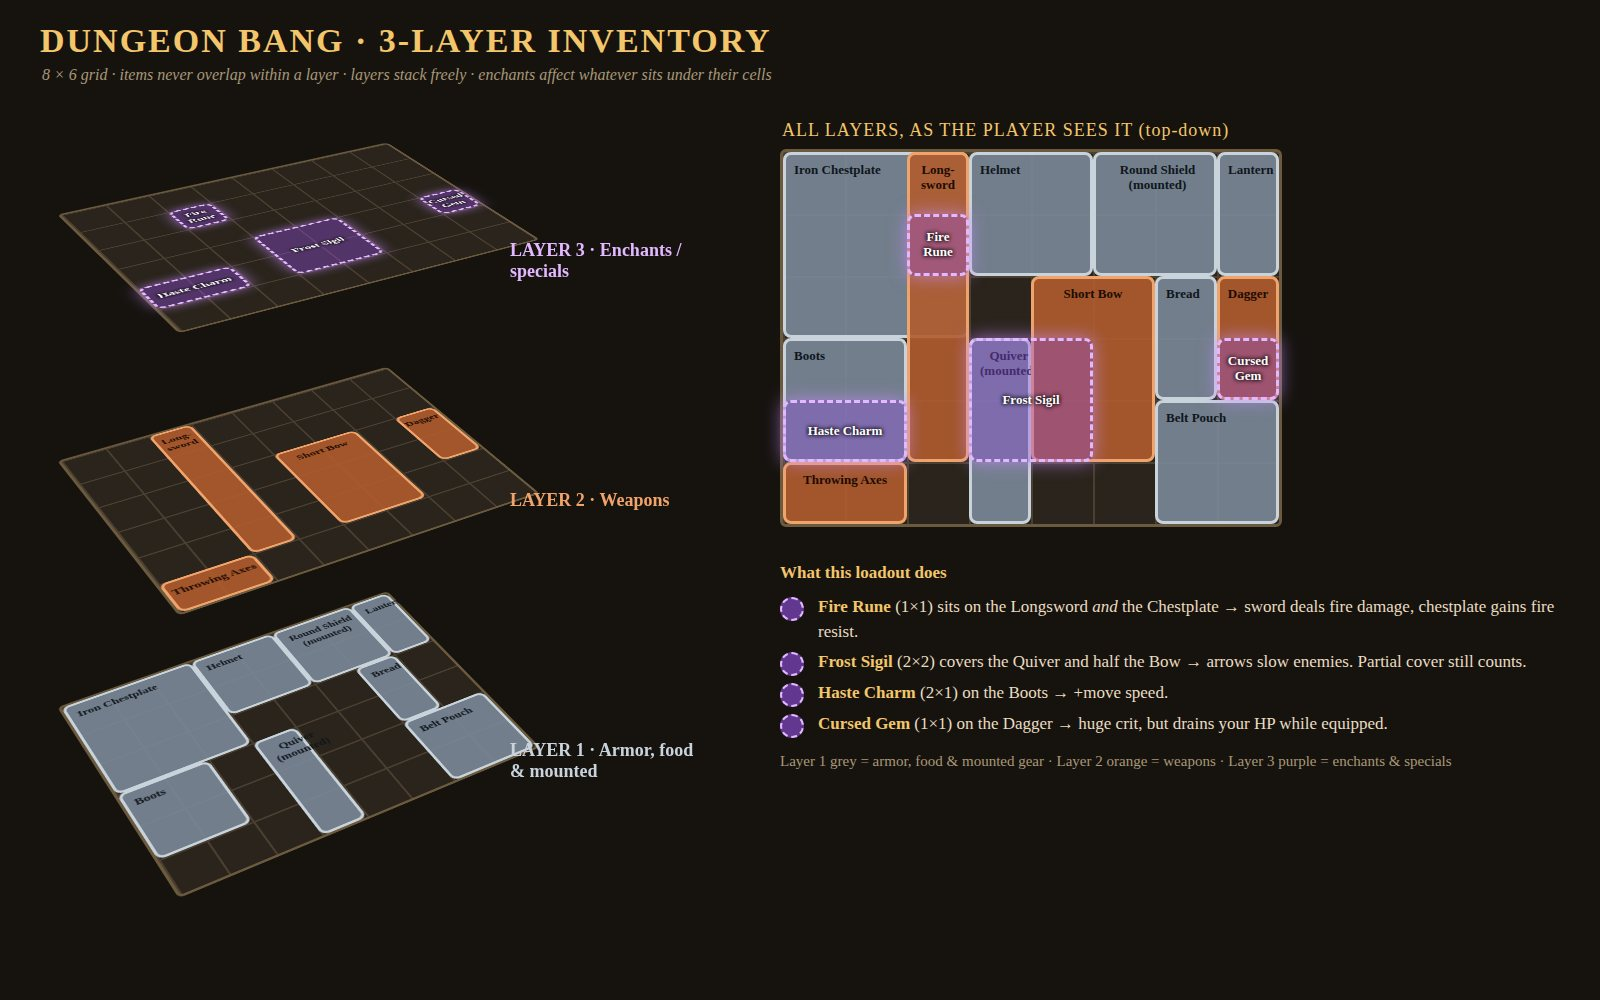
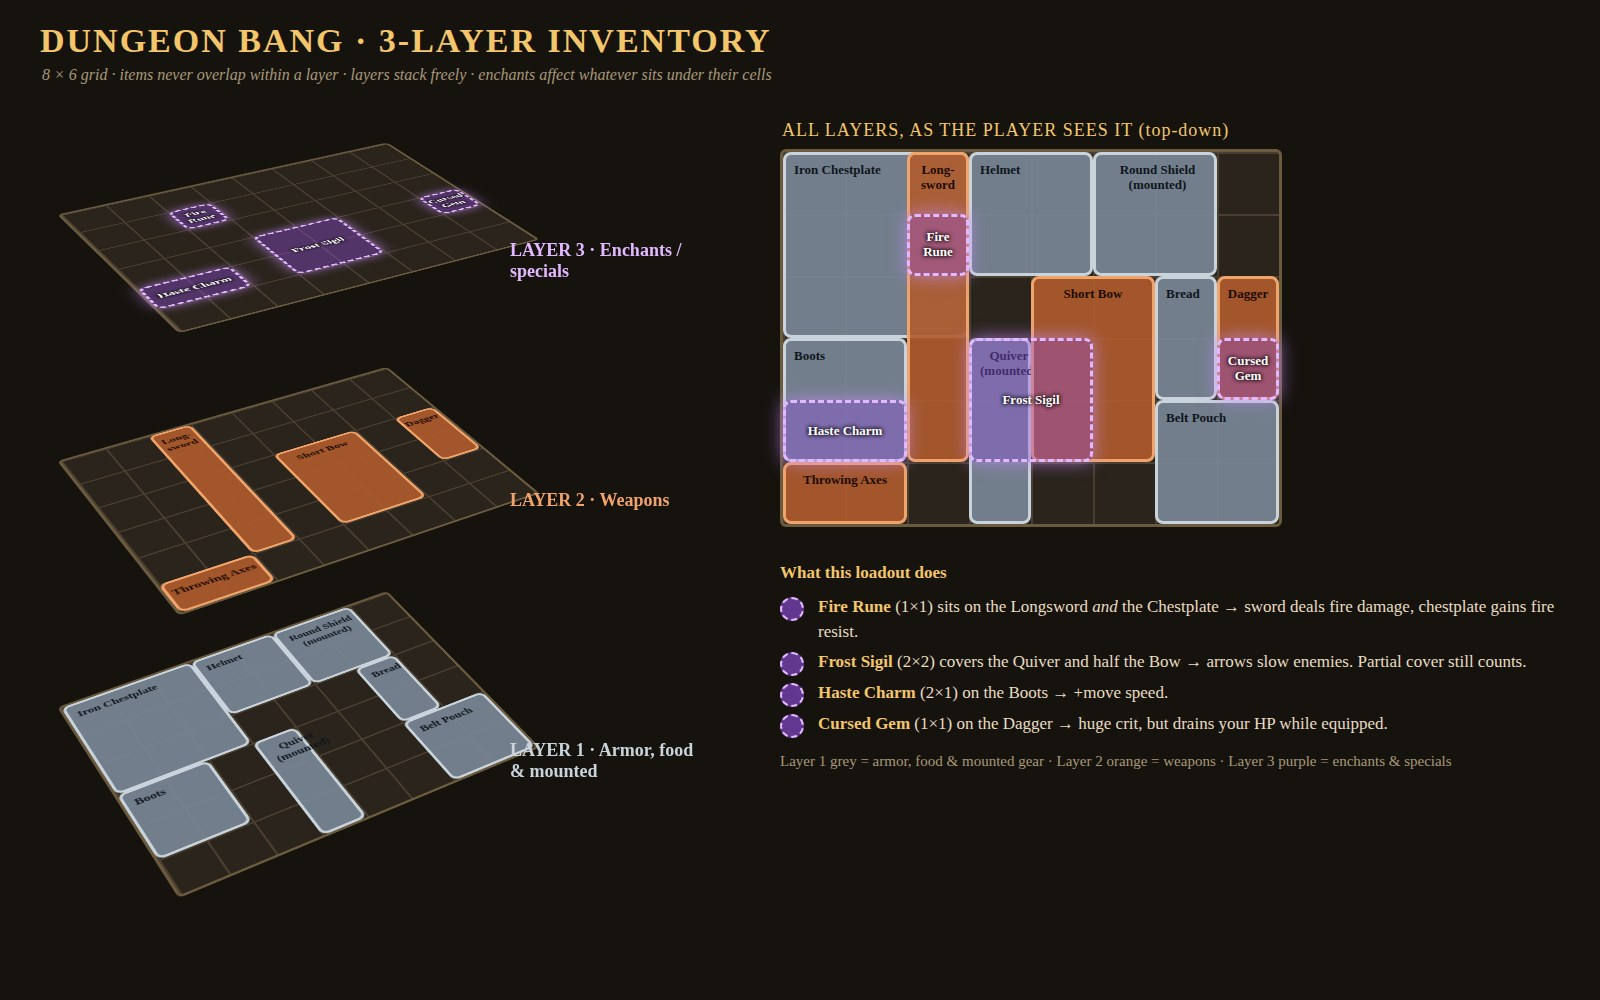
Remove the Lantern from the inventory page and mockup

Changed region(s): [[0.75, 0.155, 0.8125, 0.279], [0.2188, 0.589, 0.2812, 0.651]]

diff --git a/docs/inventory.md b/docs/inventory.md
@@ -8,7 +8,7 @@ Your inventory is three stacked grids. Space is the main limit: big armor eats l
 
 | Layer | Holds |
 |-|-|
-| 1 | Armor, mounted gear and **food** (chest, helmet, boots, shield, quiver, lantern, pouches, rations) |
+| 1 | Armor, mounted gear and **food** (chest, helmet, boots, shield, quiver, pouches, rations) |
 | 2 | Weapons |
 | 3 | Enchants, runes, gems and specials that affect the items **beneath** them |
 
